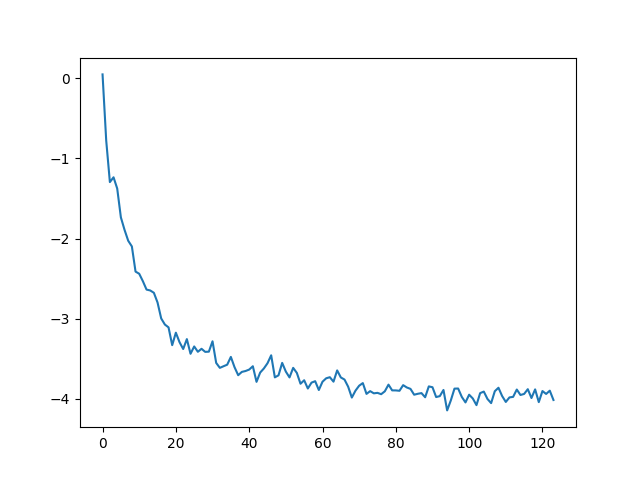
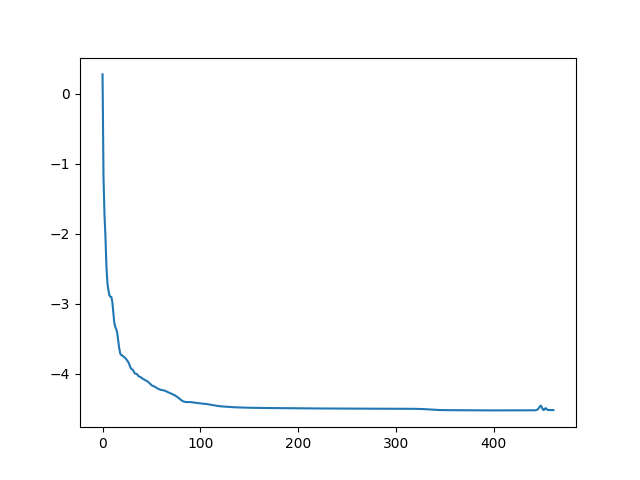
trying to find new hyperparameters

diff --git a/src/random_search_best_optimizer.py b/src/random_search_best_optimizer.py
@@ -49,12 +49,13 @@ def run_trial(trial):
     
     #n_shots = trial.suggest_categorical("n_shots", [100, 1000, 10000])
     #SETTING IT TO NONE FOR TIME IT WOULD BE MORE CORRECT TO HAVE IT WITH SET NUMBER OF SHOTS
-    n_shots=1000
+    n_shots=None
     
     # Suggesting from a range is often better than a fixed list
     learning_rate = trial.suggest_float("learning_rate", 8e-2, 6e-1, log=True)
     schedule_factor = trial.suggest_float("schedule_factor", 0.2, 0.8)
     schedule_patience = trial.suggest_int("schedule_patience", 5, 14)
+    state_or_not = trial.suggest_categorical("non_zero_state", [True, False])
     
     # #ATTEMPT AT MAKING IT IN REALTION TO THE SCHEDULE
     # patience_center = int(5 + 11 * ((1 - schedule_factor)**2))
@@ -83,12 +84,13 @@ def run_trial(trial):
             patience= 30,  
             param_init=init_type)
           
-        best_energy, best_epoch, _, _, _= vqe.train_VQE( epochs = 1000,
+        best_energy, best_epoch, _, _, _= vqe.train_VQE( epochs = 3000,
                                 learning_rate = learning_rate,
                                 scheduler_patience = schedule_patience,
                                 scheduler_factor = schedule_factor,
                                 optimizer_choice = "Adam",
-                                with_scheduler = True)  
+                                with_scheduler = True,
+                                non_zero_state=state_or_not)  
         energies_error.append(float(abs((best_energy - theoretical_energy[h_selected,k_selected]) / theoretical_energy[h_selected,k_selected])))
         epochs_list.append(best_epoch)
 
@@ -97,9 +99,9 @@ def run_trial(trial):
     std_energy = np.std(energies_error)
     mean_epoch = np.mean(epochs_list)
 
-    trial.set_user_attr("my_variable", theoretical_energy[h_selected,k_selected])
-    trial.set_user_attr("k_selected", ks[k_selected])
-    trial.set_user_attr("h_selected", hs[h_selected])
+    # trial.set_user_attr("my_variable", theoretical_energy[h_selected,k_selected])
+    # trial.set_user_attr("k_selected", ks[k_selected])
+    # trial.set_user_attr("h_selected", hs[h_selected])
 
 
     return float(mean_enery_error), float(std_energy), float(mean_epoch)
@@ -123,21 +125,12 @@ theoretical_energy=np.empty((len(ks), len(hs)), dtype=float)
 
 if __name__ == "__main__":
 
-    n_trials=6
+    n_trials=7
     pbar = tqdm(total=n_trials, desc="Optimizing VQE") # Match total to n_trials
     #torch.manual_seed(42)    
 
-    # list_n_qubits=[4, 6, 8, 12]
-    # list_ansatz_depth=[2, 4, 6, 9] # paper says 6(9)
-    # list_n_shots=[100, 1000, 10000]
-    # list_param_init=[None,0,np.pi]
-    # list_schedule_patience=[3,5,7,10]
-    # list_schedule_factor=[0.1,0.3,0.5,0.7,0.8,0.9]
-    # list_learning_rate=[0.001, 0.01, 0.05, 0.07, 0.1]
-    # list_optimizers=["ASGD", "Adam"]
-
     #train_VQE( epochs=100, learning_rate=0.01, scheduler_patience=5, scheduler_factor=0.8, optimizer_choice="Adam", with_scheduler=True)
-
+    t1=perf_counter()
     def update_pbar(study, trial):
         pbar.update(1)
 
@@ -168,7 +161,7 @@ if __name__ == "__main__":
 
     # 2. CREATE STUDY
     study = optuna.create_study(
-        study_name="vqe_search_v5_with_random_kh",
+        study_name="vqe_search_v5_with_random_kh_beginning_state_shots_none",
         storage=storage_url,
         directions=["minimize", "minimize", "minimize"],
         pruner=optuna.pruners.MedianPruner(),

diff --git a/src/VQE.py b/src/VQE.py
@@ -21,7 +21,7 @@ class VQE:
         
         # 1. Device Selection for better performances depending on available devices on computer
         #qubit = cpu
-        if self.noise:
+        if self.noise==True:
             noise_model = NoiseModel()
             error = depolarizing_error(0.01, 1)  # 1-qubit depolarizing
             noise_model.add_all_qubit_quantum_error(error, ['u1', 'u2', 'u3'])
@@ -117,17 +117,22 @@ class VQE:
         """Floating Phase transition line"""
         return 1.05 * (k - 0.5)
 
-    def train_VQE(self, epochs=3000, learning_rate=0.151315, scheduler_patience=12, scheduler_factor=0.75816, optimizer_choice="Adam", with_scheduler=True, optuna_trial=True):
+    def train_VQE(self, epochs=3000, learning_rate=0.151315, scheduler_patience=12, scheduler_factor=0.75816, optimizer_choice="Adam", with_scheduler=True, non_zero_state=False):
         
         phase=self.get_phase(self.k, self.h)
 
-        if(phase==0):
-            starting_state,_=calc_state(self.n,0,0)
-        elif(phase==1):
-            starting_state,_=calc_state(self.n,1,0)
-        else:
-            starting_state,_=calc_state(self.n,0,2)
-        starting_state=torch.tensor(starting_state,dtype=torch.complex128)
+        starting_state=None
+        if (non_zero_state==True):
+            if(phase==0):
+                starting_state,phase2=calc_state(self.n,0,0)
+                print(f"{phase}{phase2}")
+            elif(phase==1):
+                starting_state,phase2=calc_state(self.n,1,0)
+                print(f"{phase}{phase2}")
+            else:
+                starting_state,phase2=calc_state(self.n,0,2)
+                print(f"{phase}{phase2}")
+            starting_state=torch.tensor(starting_state,dtype=torch.complex128)
 
         # various variables to keep track of what is happening to the model
         best_energy = float('inf')
@@ -232,15 +237,15 @@ class VQE:
 
         # Nearest Neighbor XX interactions
         for i in range(self.n - 1):
-            energy += self.j * sum(self.eigenvalues_nn[i] * probs_x)
+            energy -= self.j * sum(self.eigenvalues_nn[i] * probs_x)
         
         # Next-Nearest Neighbor XX interactions
         for i in range(self.n - 2):
-            energy -= self.k * sum(self.eigenvalues_nnn[i] * probs_x)
+            energy += self.k * sum(self.eigenvalues_nnn[i] * probs_x)
             
         # Transverse Field Z interactions
         for i in range(self.n):
-            energy += self.h * sum(self.eigenvalues_z[i] * probs_z)
+            energy -= self.h * sum(self.eigenvalues_z[i] * probs_z)
 
         return energy
     
@@ -262,12 +267,12 @@ if __name__ == "__main__":
     print("start")
     t1 = perf_counter()
     n_qubits=6
-    k=0.2
+    k=0.5
     h=0.5
     #manual_seed(42)
     # Note: For 2 qubits, next-nearest neighbor (k) doesn't exist, which is fine.
-    vqe = VQE(n_wires=n_qubits, n_layers=68, k=k, h=h, shots=None, noise=False)  
-    best_energy, best_epoch, last_epoch, energy_history, lr_history = vqe.train_VQE()  
+    vqe = VQE(n_wires=n_qubits, n_layers=9, k=k, h=h, shots=None, noise=False)  
+    best_energy, best_epoch, last_epoch, energy_history, lr_history = vqe.train_VQE(non_zero_state=False)  
 
     import energy
     print(energy.theoretical_energy(n_qubits,k,h))
